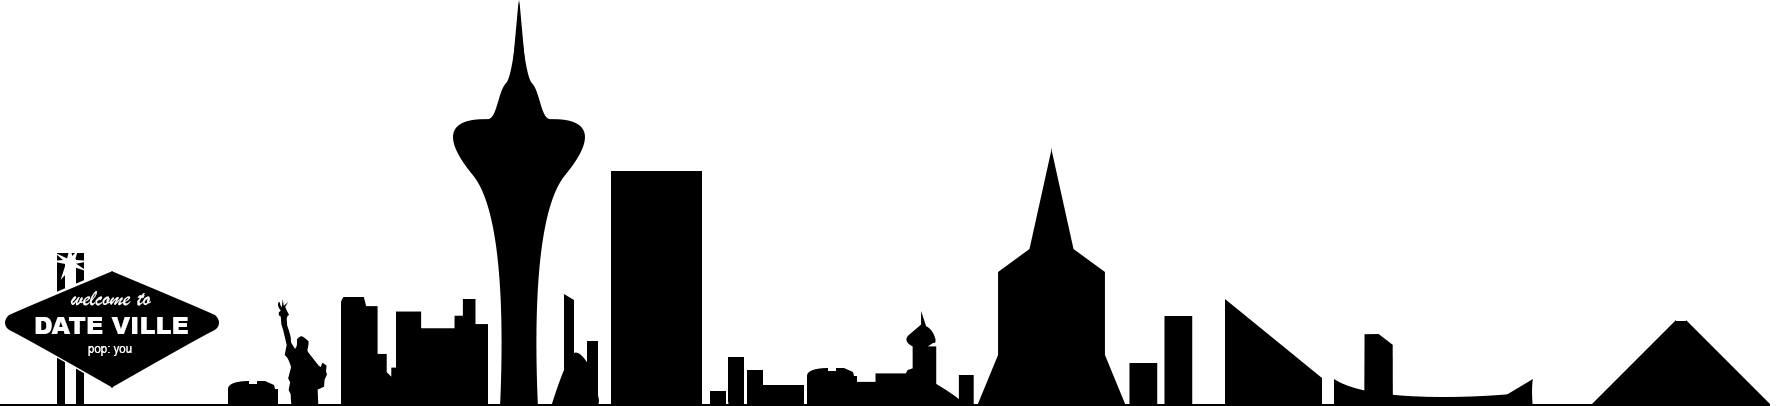
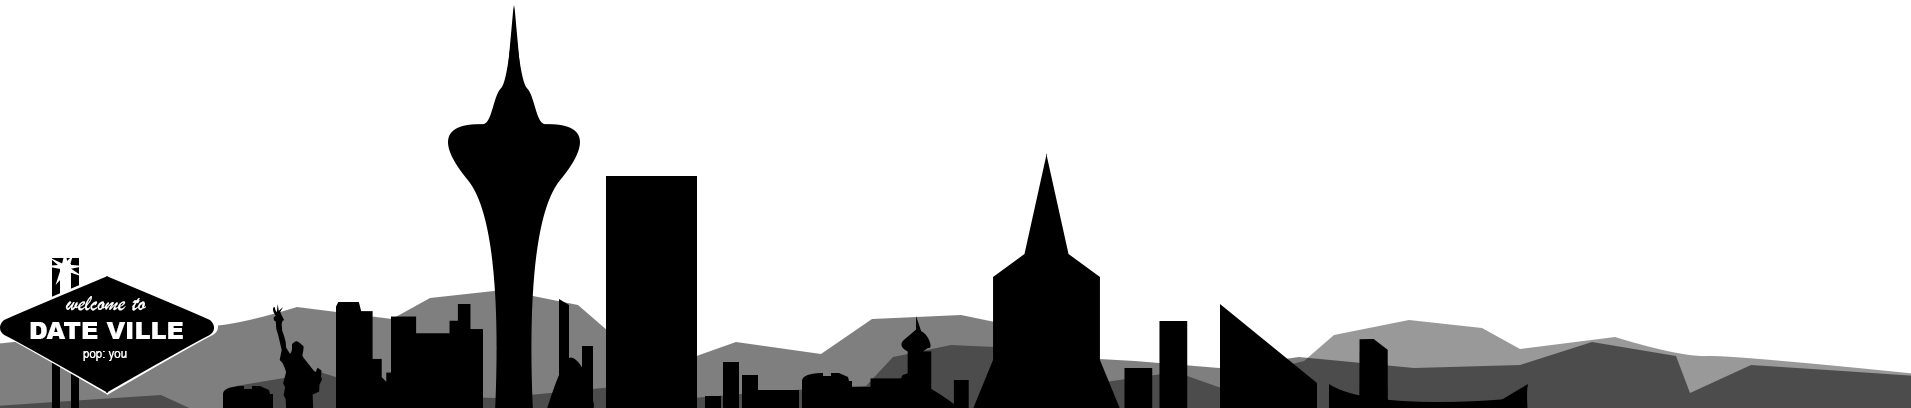
added new slides

Changed region(s): [[0.0, 0.0591, 1.0, 1.0]]

diff --git a/index.html b/index.html
@@ -123,11 +123,6 @@
         </section>
 
         <section>
-          <h3>Because this happens</h3>
-          <img src="img/bootstrap-plain.png" />
-        </section>
-
-        <section>
           <h3>Oh hai clone army</h3>
           <img src="img/troopers.jpg" />
         </section>
@@ -171,16 +166,53 @@
         <section>
           <h2>So, <i class="inverse">what</i> do we need?</h2>
           <ul>
+            <li>Rad layout</li>
             <li>Righteous style</li>
             <li>Bodacious color scheme</li>
             <li>Tubular typography</li>
-            <li>Rad layout</li>
             <li>Gnarly custom components</li>
           </ul>
         </section>
         
+       
         <section>
-          <h2>Choosing a style</h2>
+          <h2>Layout</h2>
+          <h3>Step 1 - <i class="inverse">Sketching</i></h3>
+        </section>
+        
+        <section>
+          <h3>Tony's sketch</h3>
+          <img src="img/sketch.jpg" />
+        </section>
+
+
+        <section>
+          <h2>Layout</h2>
+          <h3>Step 2 - <i class="inverse">Bootstrap time!</i></h3>
+        </section>
+
+        <section>
+          <img src="img/bootstrap-plain.png"  />
+        </section>
+
+        <section>
+        <pre>
+        <code>
+&lt;!-- assume typical HTML boilerplate --&gt;
+&lt;div class="navbar"&gt; ... &lt;/div&gt;
+&lt;div class="hero-unit"&gt; ... &lt;/div&gt;
+&lt;div class="row-fluid"&gt; 
+  &lt;div class="span4"&gt;&lt;/div&gt;
+  &lt;div class="span4"&gt;&lt;/div&gt;
+  &lt;div class="span4"&gt;&lt;/div&gt;
+&lt;/div&gt;
+        </code>
+        </pre>
+        </section>
+
+
+       <section>
+          <h2>Next: Choose a style</h2>
           <ul>
             <li>Minimalism</li>
             <li>Retro</li>
@@ -197,19 +229,26 @@
         <section>
           <img src="img/moodboard.png" />
         </section>
-        
+
         <section>
           <h2>Colors</h2>
-          <ul>
-            <li>Brand colors</li>
-            <li>Utility colors</li>
-          </ul>
+          <h3>Refer to your <span class="inverse">moodboard</span></h3>
+        </section>
+
+        <section>
+          <img src="img/color-scheme.png" />
         </section>
         
         <section>
-          <h2>Color Scheme Designer</h2>
+          <h2>Other options</h2>
           <img src="img/colorschemedesigner.png" />
           <h3><a href="http://colorschemedesigner.com/">Link</a></h3>
+        </section>
+        
+
+        <section>
+          <h3>Tony's Site Colored</h3>
+          <img src="img/bootstrap-colored.png" />
         </section>
         
         <section>
@@ -217,17 +256,24 @@
           <img src="img/googlewebfonts.png" />
           <h3>Google Web Fonts</h3>
         </section>           
-        
+
+
         <section>
-          <h2>Layout</h2>
-          <h3>Step 1 - <i class="inverse">Sketching</i></h3>
+          <h3>H1's & logo: Lobster</h3>
+          <img src="img/lobster-example.png" />
+        </section>
+
+        <section>
+          <h3>Rest: Open sans</h3>
+          <img src="img/opensans-example.png" />
+        </section>
+
+
+        <section>
+          <img src="img/bootstrap-typography.png" />
         </section>
         
-        <section>
-          <h3>Tony's sketch</h3>
-          <h3>[Insert here]</h3>
-        </section>
-        
+
         <section>
           <h2>Layout</h2>
           <h3>Step 2 - <i class="inverse">Mockups</i></h3>

diff --git a/prototype/less/scaffolding.less b/prototype/less/scaffolding.less
@@ -5,11 +5,6 @@ body {
   -webkit-font-smoothing: antialiased;
 }
 
-.container-fluid {
-  margin: 0 auto;
-  max-width: 1000px;
-}
-
 .hero-unit {
   @spacing: 80px;
   width: 100%;
@@ -22,12 +17,43 @@ body {
   text-align: center;
   color: #fff;
   background: @secondary;
-  background: -webkit-radial-gradient(80% 85%, 80% 80%, lighten(@secondary, 30%), lighten(@secondary, 0%));
+  background: -webkit-radial-gradient(50% 100%, 80% 50%, @secondary, @tertiary);
 
   img.background { 
     position: absolute;
     display: block;
     bottom: 0px;
+    z-index: 0;
+  }
+
+
+  #luxor-container {
+    position: absolute;
+    display: block; 
+    bottom: 0px;
+    right: 0px;
+    max-width: 176px;
+    max-height: 316px;
+    z-index: 0;
+  }
+
+  #luxor {
+    position: absolute;
+    display: block; 
+    bottom: 0px;
+    right: 0px;
+    z-index: 0;
+    max-width: 176px;
+    max-height: 82px;
+  }
+
+  #luxor-light {
+    position: absolute;
+    display: block; 
+    bottom: 82px;
+    right: 176px/2 - 12px;
+    max-width: 24px;
+    max-height: 192px;
     z-index: 0;
   }
 

diff --git a/prototype/less/custom.less b/prototype/less/custom.less
@@ -3,7 +3,7 @@
   height: 140px;
   width: 100px;
   margin: 0 auto;
-  background: url("../img/pattern.png") @secondary;
+  background: url("../img/pattern.png") @tertiary;
   display: block;
   position: relative;
   border-radius: 6px;
@@ -42,28 +42,16 @@
     color: @black;
     border-top: 1px solid #fff;
     border-bottom: 1px solid #fff;
-    i {
-      color: @secondary;
-    }
-    h1 {
-      color: @secondary;
-    }
-    h2 {
-      text-shadow: none;
-    }
-    .btn {
-      background: @secondary;
-      color: #fff;
-      &:hover {
-        color: @primary;
-      }
+
+    h1, h2, i {
+      color: @tertiary;
     }
   }
 
   hr {
     background: transparent;
     border: none;
-    border-top: 1px solid rgba(255,255,255,0.4);
+    border-top: 1px solid rgba(0,0,0,0.15);
   }
   margin-top: -30px;
   padding: 50px 0;

diff --git a/prototype/less/animations.less b/prototype/less/animations.less
@@ -72,6 +72,17 @@
   }
 }
 
+
+.blink {
+  0%, 15%, 25% {
+    opacity: 0;
+  }
+
+  10%, 20%, 100% {
+    opacity: 1;
+  }
+}
+
 // borrowed from https://github.com/daneden/animate.css/blob/master/source/hinge.css
 .hinge {
 	0% { 
@@ -136,7 +147,12 @@
 @-webkit-keyframes hinge { .hinge(); } 
 @-moz-keyframes    hinge { .hinge(); } 
 @-o-keyframes      hinge { .hinge(); } 
-@keyframes         hinge { .hinge(); } 
+@keyframes         hinge { .hinge(); }
+
+@-webkit-keyframes blink { .blink(); } 
+@-moz-keyframes    blink { .blink(); } 
+@-o-keyframes      blink { .blink(); } 
+@keyframes         blink { .blink(); } 
 
 
 
@@ -159,4 +175,5 @@
   &.fade-out-down { #animation > .apply(fade-out-down); }
 
   &.hinge         { #animation > .apply(hinge); }
+  &.blink         { #animation > .apply(blink); }
 }

diff --git a/prototype/index.html b/prototype/index.html
@@ -1,6 +1,8 @@
 <!DOCTYPE HTML>
 <html>
   <head>
+    <meta name="viewport" content="width=device-width, initial-scale=1.0">
+    
     <!-- bootstrap -->
     <link href="css/bootstrap.min.css" rel="stylesheet">
     <link href="css/bootstrap-responsive.min.css" rel="stylesheet">
@@ -34,6 +36,10 @@
 
   <div class="hero-unit">
       <img class="background animated fade-in-up delayed-025s" src="img/city.png" />
+      <div id="luxor-container">
+        <img id="luxor" class="animated fade-in-up delayed-025s" src="img/luxor.png" />
+        <img id="luxor-light" class="animated blink delayed-2s" src="img/luxor-light.png" />
+      </div>
       <div class="container-fluid">
         <div class="animated fade-in-down delayed-1s">
           <h1>Stop being lonely</h1>

diff --git a/prototype/less/theme.less b/prototype/less/theme.less
@@ -1,23 +1,33 @@
 
 // Color scheme
-@purple: #8F0A8F;
-@lavender: #4D1796;
-@blue: #21219A;
-@yellow: #DDCA10;
 @black: #000;
-@fuschia: #FC5882;
-@lightblue: #9EC8FE;
+@fuschia: #fd4168;
+@mediumFuschia: lighten(#af0047, 5%);
+@teal: #0084af;
 
 @primary: @black;
 @secondary: @fuschia;
-@tertiary: @blue;
-@quaternary: @lightblue;
+@tertiary: @mediumFuschia;
+@quaternary: @teal;
 
 
 
-@import "navigation.less"; 
+
+
+
 @import "scaffolding.less"; 
-@import "typography.less";
+@import "navigation.less"; 
+/*
 @import "buttons.less";
 @import "custom.less";
-@import "animations.less";
+@import "animations.less"; */
+
+
+img {
+  display: none !important;
+}
+
+.container-fluid {
+  margin: 0 auto;
+  max-width: 1000px;
+}

diff --git a/prototype/less/typography.less b/prototype/less/typography.less
@@ -2,22 +2,23 @@
 
 body { 
   font-family: 'Open Sans', sans-serif;
+  -webkit-font-smoothing: antialiased;
+  
 }
 
 h1, .copyright {
   font-family: "Lobster", cursive;
+  text-shadow: 3px 4px rgba(0, 0, 0, 0.5);
 }
 
 h1 {
   font-size: @h1-size;
   margin-bottom: @h1-size / 2;
-  text-shadow: 2px 3px @primary, 4px 5px darken(@primary, 12%); 
 }
 
 h2 {
   font-size: @h1-size / 2;
   font-weight: normal;
-  text-shadow: 1px 2px @primary;   
 }
 
 h3 {

diff --git a/prototype/less/navigation.less b/prototype/less/navigation.less
@@ -32,7 +32,7 @@
 
   .btn {
     margin: 0;
-    background: @secondary;
+    background: @tertiary;
     color: #fff;
     text-shadow: none;
     border-bottom: none;

diff --git a/prototype/less/buttons.less b/prototype/less/buttons.less
@@ -5,7 +5,7 @@
   -webkit-transition: background 0.5s;
 
   &:hover {
-    color: @secondary;
+    background: @quaternary;
   }
 
   &.btn-jumbo {
